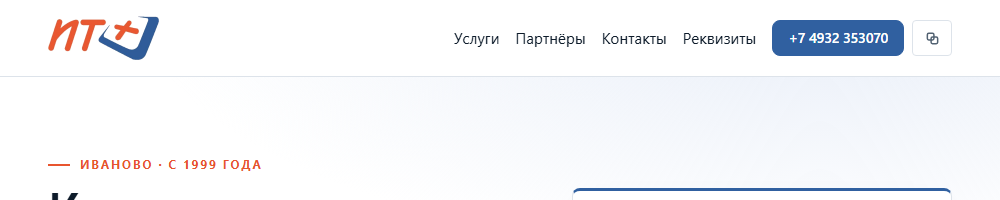
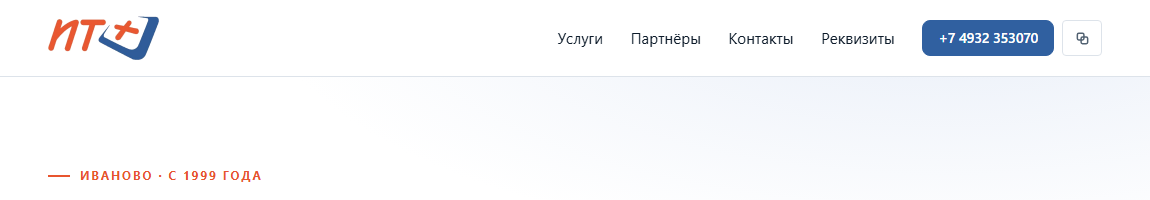
Подпись в шапке красно-оранжевая и крупнее — в цветах и размере логотипа

diff --git a/assets/style.css b/assets/style.css
@@ -165,17 +165,17 @@ p:last-child { margin-bottom: 0; }
 
 .brand-name {
   font-family: var(--font-display);
-  font-size: 1.38rem;
+  font-size: 2rem;
   font-weight: 700;
   font-style: italic;
   text-transform: uppercase;
-  letter-spacing: .015em;
+  letter-spacing: .005em;
   line-height: 1;
   white-space: nowrap;
-  color: var(--ink);
+  color: var(--red);
 }
 
-@media (max-width: 1080px) {
+@media (max-width: 1200px) {
   .brand-name { display: none; }
 }
 
